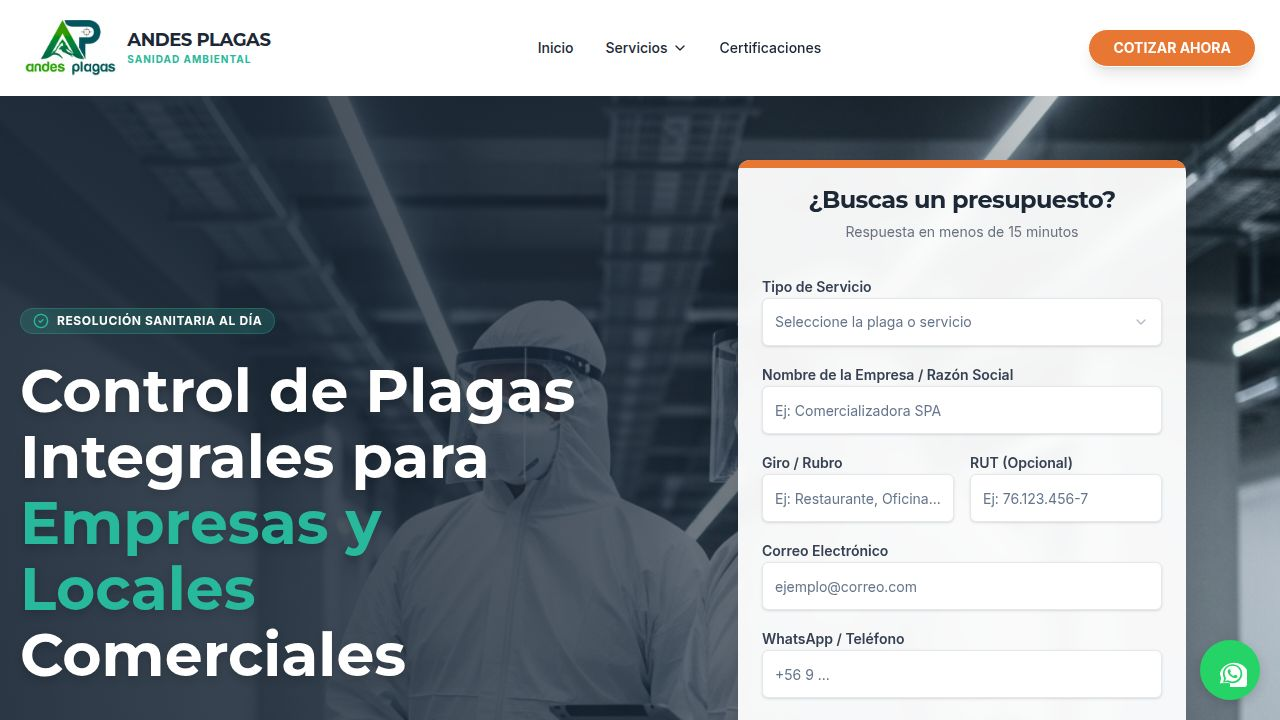
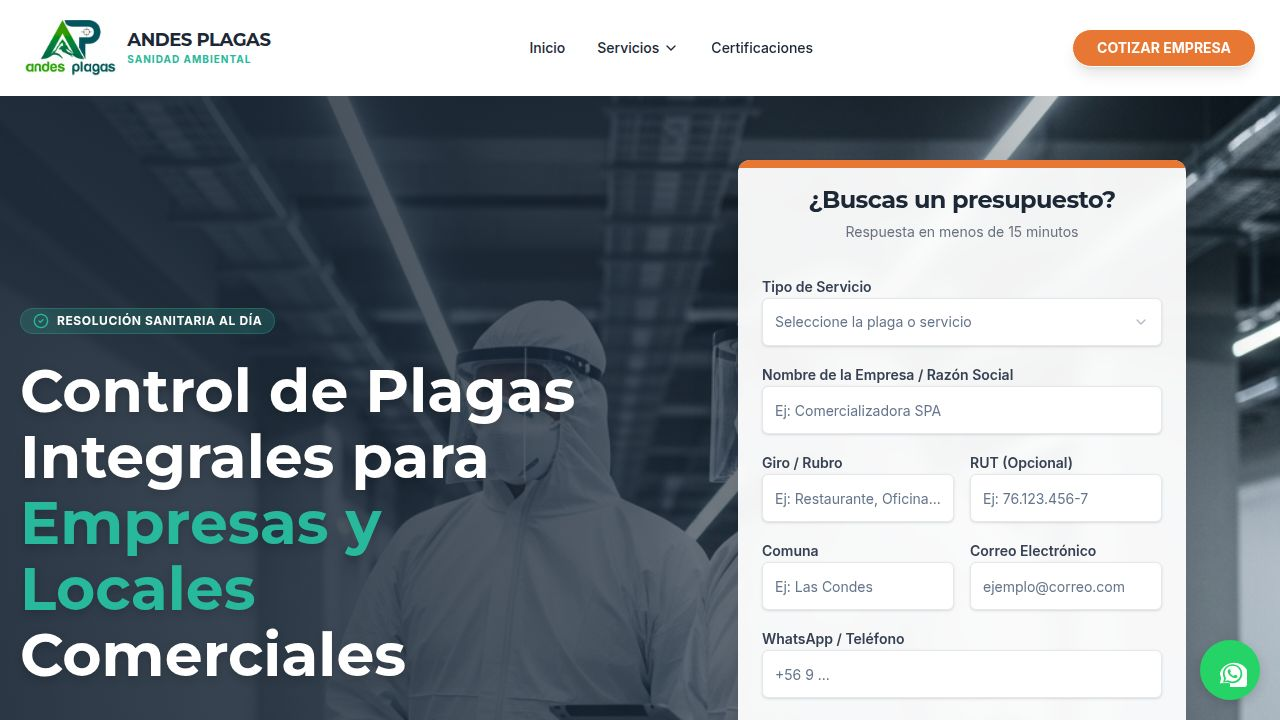
Add commune field to all quote forms and improve SEO meta tags
Adds a required 'comuna' field to the form schemas and UI across Hero, Desinsectación, Desratización, and Sanitización pages. Updates form data submission to include the new field. Also updates the opengraph image.

Replit-Commit-Author: Agent
Replit-Commit-Session-Id: cdef0bc6-3d74-45e5-8ab1-0b4f23b8f58e
Replit-Commit-Checkpoint-Type: full_checkpoint
Replit-Commit-Event-Id: 259588ca-20a5-412b-8399-f2a52b6960ee
Replit-Commit-Screenshot-Url: https://storage.googleapis.com/screenshot-production-us-central1/36b1f49b-6cd7-4f11-af2c-186fa44c1cf6/cdef0bc6-3d74-45e5-8ab1-0b4f23b8f58e/sbS2kWv
Replit-Helium-Checkpoint-Created: true

diff --git a/client/src/components/hero.tsx b/client/src/components/hero.tsx
@@ -16,6 +16,7 @@ const formSchema = z.object({
   empresa: z.string().min(2, "El nombre de la empresa es requerido"),
   rubro: z.string().min(2, "El giro o rubro es requerido"),
   rut: z.string().optional(),
+  comuna: z.string().min(2, "La comuna es requerida"),
   email: z.string().email("Ingrese un correo válido"),
   contacto: z.string().min(1, "Ingrese su teléfono o WhatsApp"),
   comentarios: z.string().optional(),
@@ -31,6 +32,7 @@ export default function Hero() {
       empresa: "",
       rubro: "",
       rut: "",
+      comuna: "",
       email: "",
       contacto: "",
       comentarios: "",
@@ -50,6 +52,7 @@ export default function Hero() {
           empresa: values.empresa,
           rubro: values.rubro,
           rut: values.rut,
+          comuna: values.comuna,
           email: values.email,
           telefono: values.contacto,
           comentarios: values.comentarios,
@@ -211,19 +214,34 @@ export default function Hero() {
                       />
                     </div>
                     
-                    <FormField
-                      control={form.control}
-                      name="email"
-                      render={({ field }) => (
-                        <FormItem>
-                          <FormLabel className="font-semibold text-gray-700">Correo Electrónico</FormLabel>
-                          <FormControl>
-                            <Input placeholder="ejemplo@correo.com" {...field} className="h-12 border-gray-200 bg-white" />
-                          </FormControl>
-                          <FormMessage />
-                        </FormItem>
-                      )}
-                    />
+                    <div className="grid grid-cols-2 gap-4">
+                      <FormField
+                        control={form.control}
+                        name="comuna"
+                        render={({ field }) => (
+                          <FormItem>
+                            <FormLabel className="font-semibold text-gray-700">Comuna</FormLabel>
+                            <FormControl>
+                              <Input placeholder="Ej: Las Condes" {...field} className="h-12 border-gray-200 bg-white" />
+                            </FormControl>
+                            <FormMessage />
+                          </FormItem>
+                        )}
+                      />
+                      <FormField
+                        control={form.control}
+                        name="email"
+                        render={({ field }) => (
+                          <FormItem>
+                            <FormLabel className="font-semibold text-gray-700">Correo Electrónico</FormLabel>
+                            <FormControl>
+                              <Input placeholder="ejemplo@correo.com" {...field} className="h-12 border-gray-200 bg-white" />
+                            </FormControl>
+                            <FormMessage />
+                          </FormItem>
+                        )}
+                      />
+                    </div>
 
                     <FormField
                       control={form.control}

diff --git a/client/src/pages/desinsectacion.tsx b/client/src/pages/desinsectacion.tsx
@@ -21,6 +21,7 @@ const formSchema = z.object({
   empresa: z.string().min(2, "El nombre de la empresa es requerido"),
   rubro: z.string().min(2, "El giro o rubro es requerido"),
   rut: z.string().optional(),
+  comuna: z.string().min(2, "La comuna es requerida"),
   email: z.string().email("Ingrese un correo válido"),
   telefono: z.string().min(1, "Ingrese su teléfono"),
   comentarios: z.string().optional(),
@@ -42,6 +43,7 @@ export default function Desinsectacion() {
       empresa: "",
       rubro: "",
       rut: "",
+      comuna: "",
       email: "",
       telefono: "",
       comentarios: "",
@@ -63,6 +65,7 @@ export default function Desinsectacion() {
           empresa: values.empresa,
           rubro: values.rubro,
           rut: values.rut,
+          comuna: values.comuna,
           email: values.email,
           telefono: values.telefono,
           comentarios: values.comentarios,
@@ -200,12 +203,22 @@ export default function Desinsectacion() {
                         )} />
                       </div>
 
-                      <FormField control={form.control} name="email" render={({ field }) => (
-                        <FormItem>
-                          <FormLabel className="font-semibold text-gray-700">Email</FormLabel>
-                          <FormControl><Input placeholder="correo@ejemplo.com" {...field} className="bg-white h-12 border-gray-200" /></FormControl>
-                        </FormItem>
-                      )} />
+                      <div className="grid grid-cols-2 gap-4">
+                        <FormField control={form.control} name="comuna" render={({ field }) => (
+                          <FormItem>
+                            <FormLabel className="font-semibold text-gray-700">Comuna</FormLabel>
+                            <FormControl><Input placeholder="Ej: Providencia" {...field} className="bg-white h-12 border-gray-200" /></FormControl>
+                            <FormMessage />
+                          </FormItem>
+                        )} />
+                        <FormField control={form.control} name="email" render={({ field }) => (
+                          <FormItem>
+                            <FormLabel className="font-semibold text-gray-700">Email</FormLabel>
+                            <FormControl><Input placeholder="correo@ejemplo.com" {...field} className="bg-white h-12 border-gray-200" /></FormControl>
+                            <FormMessage />
+                          </FormItem>
+                        )} />
+                      </div>
                       <FormField control={form.control} name="telefono" render={({ field }) => (
                         <FormItem>
                           <FormLabel className="font-semibold text-gray-700">Teléfono / WhatsApp</FormLabel>

diff --git a/client/src/pages/desratizacion.tsx b/client/src/pages/desratizacion.tsx
@@ -21,6 +21,7 @@ const formSchema = z.object({
   empresa: z.string().min(2, "El nombre de la empresa es requerido"),
   rubro: z.string().min(2, "El giro o rubro es requerido"),
   rut: z.string().optional(),
+  comuna: z.string().min(2, "La comuna es requerida"),
   email: z.string().email("Ingrese un correo válido"),
   telefono: z.string().min(1, "Ingrese su teléfono"),
   comentarios: z.string().optional(),
@@ -42,6 +43,7 @@ export default function Desratizacion() {
       empresa: "",
       rubro: "",
       rut: "",
+      comuna: "",
       email: "",
       telefono: "",
       comentarios: "",
@@ -63,6 +65,7 @@ export default function Desratizacion() {
           empresa: values.empresa,
           rubro: values.rubro,
           rut: values.rut,
+          comuna: values.comuna,
           email: values.email,
           telefono: values.telefono,
           comentarios: values.comentarios,
@@ -207,12 +210,22 @@ export default function Desratizacion() {
                         )} />
                       </div>
 
-                      <FormField control={form.control} name="email" render={({ field }) => (
-                        <FormItem>
-                          <FormLabel className="font-semibold text-gray-700">Email</FormLabel>
-                          <FormControl><Input placeholder="correo@ejemplo.com" {...field} className="bg-white h-12 border-gray-200" /></FormControl>
-                        </FormItem>
-                      )} />
+                      <div className="grid grid-cols-2 gap-4">
+                        <FormField control={form.control} name="comuna" render={({ field }) => (
+                          <FormItem>
+                            <FormLabel className="font-semibold text-gray-700">Comuna</FormLabel>
+                            <FormControl><Input placeholder="Ej: Providencia" {...field} className="bg-white h-12 border-gray-200" /></FormControl>
+                            <FormMessage />
+                          </FormItem>
+                        )} />
+                        <FormField control={form.control} name="email" render={({ field }) => (
+                          <FormItem>
+                            <FormLabel className="font-semibold text-gray-700">Email</FormLabel>
+                            <FormControl><Input placeholder="correo@ejemplo.com" {...field} className="bg-white h-12 border-gray-200" /></FormControl>
+                            <FormMessage />
+                          </FormItem>
+                        )} />
+                      </div>
                       <FormField control={form.control} name="telefono" render={({ field }) => (
                         <FormItem>
                           <FormLabel className="font-semibold text-gray-700">Teléfono / WhatsApp</FormLabel>

diff --git a/client/src/pages/sanitizacion.tsx b/client/src/pages/sanitizacion.tsx
@@ -21,6 +21,7 @@ const formSchema = z.object({
   empresa: z.string().min(2, "El nombre de la empresa es requerido"),
   rubro: z.string().min(2, "El giro o rubro es requerido"),
   rut: z.string().optional(),
+  comuna: z.string().min(2, "La comuna es requerida"),
   email: z.string().email("Ingrese un correo válido"),
   telefono: z.string().min(1, "Ingrese su teléfono"),
   comentarios: z.string().optional(),
@@ -42,6 +43,7 @@ export default function Sanitizacion() {
       empresa: "",
       rubro: "",
       rut: "",
+      comuna: "",
       email: "",
       telefono: "",
       comentarios: "",
@@ -63,6 +65,7 @@ export default function Sanitizacion() {
           empresa: values.empresa,
           rubro: values.rubro,
           rut: values.rut,
+          comuna: values.comuna,
           email: values.email,
           telefono: values.telefono,
           comentarios: values.comentarios,
@@ -202,12 +205,22 @@ export default function Sanitizacion() {
                         )} />
                       </div>
 
-                      <FormField control={form.control} name="email" render={({ field }) => (
-                        <FormItem>
-                          <FormLabel className="font-semibold text-gray-700">Email</FormLabel>
-                          <FormControl><Input placeholder="correo@ejemplo.com" {...field} className="bg-white h-12 border-gray-200" /></FormControl>
-                        </FormItem>
-                      )} />
+                      <div className="grid grid-cols-2 gap-4">
+                        <FormField control={form.control} name="comuna" render={({ field }) => (
+                          <FormItem>
+                            <FormLabel className="font-semibold text-gray-700">Comuna</FormLabel>
+                            <FormControl><Input placeholder="Ej: Providencia" {...field} className="bg-white h-12 border-gray-200" /></FormControl>
+                            <FormMessage />
+                          </FormItem>
+                        )} />
+                        <FormField control={form.control} name="email" render={({ field }) => (
+                          <FormItem>
+                            <FormLabel className="font-semibold text-gray-700">Email</FormLabel>
+                            <FormControl><Input placeholder="correo@ejemplo.com" {...field} className="bg-white h-12 border-gray-200" /></FormControl>
+                            <FormMessage />
+                          </FormItem>
+                        )} />
+                      </div>
                       <FormField control={form.control} name="telefono" render={({ field }) => (
                         <FormItem>
                           <FormLabel className="font-semibold text-gray-700">Teléfono / WhatsApp</FormLabel>
